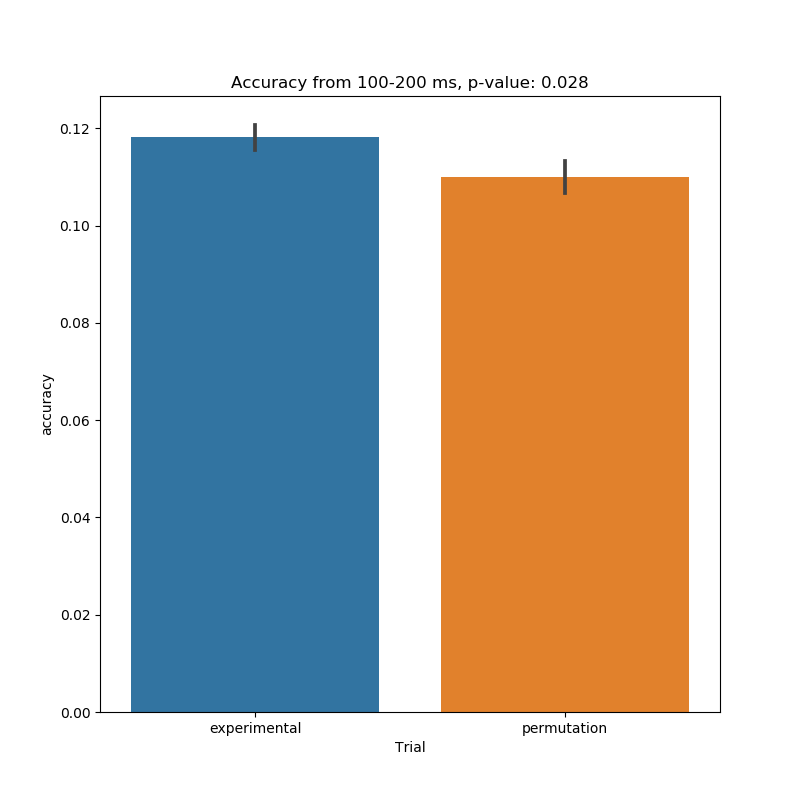
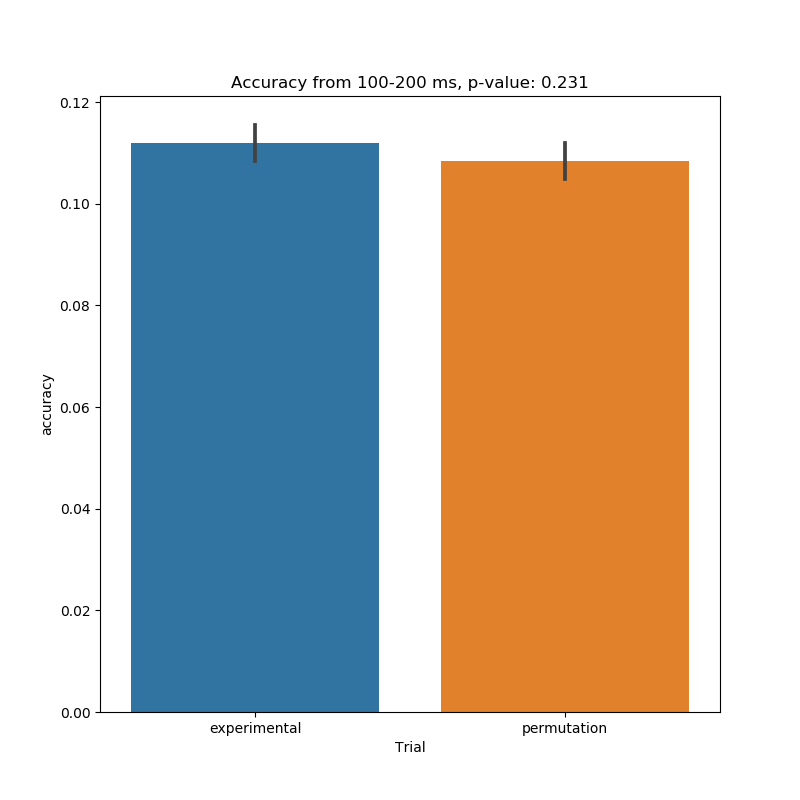
figures

diff --git a/code/IEM_ori_MEG.py b/code/IEM_ori_MEG.py
@@ -1,6 +1,7 @@
 import numpy as np
 from scipy.io import loadmat
 from scipy.stats import vonmises
+from scipy.optimize import curve_fit
 from sklearn.model_selection import KFold
 import matplotlib.pyplot as plt
 import seaborn as sns
@@ -100,16 +101,16 @@ class InvertedEncoder(object):
 
         chan_resp_cv_coeffs = np.zeros((trn_cv_coeffs.shape[0], len(self.chan_center), trn_cv_coeffs.shape[2]))
 
-        #n_reps = int(np.max(trn_repnum))
+        n_reps = int(np.max(trn_repnum))
 
-        #for ii in range(n_reps):
-        #    trnidx = trn_repnum != ii
-        #    tstidx = trn_repnum == ii
+        for ii in range(n_reps):
+            trnidx = trn_repnum != ii
+            tstidx = trn_repnum == ii
 
-        kfold = KFold(n_splits=5, shuffle=True)
-        for train, test in kfold.split(trn_cv_coeffs):
-            trnidx = train
-            tstidx = test
+        #kfold = KFold(n_splits=5, shuffle=True)
+        #for train, test in kfold.split(trn_cv_coeffs):
+            #trnidx = train
+            #tstidx = test
 
             thistrn = trn_cv_coeffs[trnidx, :, :]
             thistst = trn_cv_coeffs[tstidx, :, :]
@@ -242,7 +243,7 @@ def make_pd_bar(exp_accs, perm_accs):
     df = pd.DataFrame(data=d)
     return df
 
-def run_all_subjects(n_ori_chans, n_p_tests=100, n_exp_tests=20, n_timesteps=16, percept_data=False, time_shift=0):
+def run_all_subjects(n_ori_chans, n_p_tests=100, n_exp_tests=10, n_timesteps=16, percept_data=False, time_shift=0):
     IEM = InvertedEncoder(n_ori_chans)
     avg_response = np.zeros(n_ori_chans)
     total_trials = 0
@@ -267,7 +268,7 @@ def run_all_subjects(n_ori_chans, n_p_tests=100, n_exp_tests=20, n_timesteps=16,
         for subj in meg_subj_lst:
             coeffs, trng_cv, targ_ori = IEM.run_subject(subj, shuffle_data=True, 
                                                         percept_data=percept_data, time_shift=time_shift)    
-            tmean = coeffs.mean(axis=2)
+            tmean = coeffs[:, :, 4:13].mean(axis=2)
             exp_timestep_ch_response += coeffs.mean(axis=0) * len(trng_cv)
             exp_accuracies[i] += n_correct(tmean, targ_ori, len(trng_cv))
             exp_accuracies_4_8[i] += n_correct(coeffs[:, :, 4:9].mean(axis=2), targ_ori, len(trng_cv))
@@ -280,7 +281,7 @@ def run_all_subjects(n_ori_chans, n_p_tests=100, n_exp_tests=20, n_timesteps=16,
         exp_accuracies_4_8[i] /= test_trials
 
         trial_accuracy = trial_accuracy / test_trials
-        exp_t_accs_x.extend(np.linspace(0.0, 0.4, n_timesteps))
+        exp_t_accs_x.extend(np.linspace(0.0, 0.375, n_timesteps))
         exp_t_accs_y.extend(trial_accuracy)
 
         avg_response += trial_response
@@ -327,7 +328,7 @@ def run_all_subjects(n_ori_chans, n_p_tests=100, n_exp_tests=20, n_timesteps=16,
         for subj in meg_subj_lst:
             coeffs, trng_cv, targ_ori = IEM.run_subject(subj, shuffle_data=True, permutation_test=True, 
                                                         percept_data=percept_data, time_shift=time_shift)
-            tmean = coeffs.mean(axis=2)
+            tmean = coeffs[:, :, 4:13].mean(axis=2)
             temp_perm_accuracy += n_correct(tmean, targ_ori, len(trng_cv))
             perm_trial_acc += n_correct_tsteps(coeffs, targ_ori, len(trng_cv))
             total_response += np.sum(tmean, 0)
@@ -369,13 +370,6 @@ def run_all_subjects(n_ori_chans, n_p_tests=100, n_exp_tests=20, n_timesteps=16,
     plt.savefig("../Figures/IEM/python_files/accuracy.png")
     plt.clf()
 
-    acc_df_4_8 = make_pd_bar(exp_accuracies_4_8, perm_accuracies)
-    plt.figure(figsize=(8, 8))
-    sns.barplot(x='Trial', y='accuracy', data=acc_df_4_8, ci="sd")
-    plt.title("Accuracy from 100-200 ms, p-value: {:.3f}".format(extreme_accs_4_8.mean() / n_p_tests))
-    plt.savefig("../Figures/IEM/python_files/accuracy_4_8.png")
-    plt.clf()
-
     plt.figure(figsize=(8,8))
     plt.hist(perm_accuracies, bins=np.linspace(0.09, 0.14, 20), label="permutation")
     plt.axvline(exp_accuracies.mean(), label="Mean Accuracy", linewidth=2.5, color='r')
@@ -386,19 +380,17 @@ def run_all_subjects(n_ori_chans, n_p_tests=100, n_exp_tests=20, n_timesteps=16,
     plt.savefig("../Figures/IEM/python_files/null_comparison.png")
     plt.clf()
 
-    plt.figure(figsize=(4, 8))
-    sns.lineplot(exp_list_x, exp_list_y, label="Experimental Response", ci="sd")
+    plt.figure(figsize=(6, 6))
+    sns.lineplot(exp_list_x, exp_list_y, label="Experimental", ci="sd")
     sns.lineplot(perm_list_x, perm_list_y, label="Permutation", ci="sd")
     
-    plt.ylim(0.1, 0.35)
-    for i in range(n_ori_chans):
-        plt.text(i-0.5, avg_response[i]+0.03, ch_resp_p_values[i], color="red")
+    plt.ylim(0.2, 0.35)
     plt.legend()
     plt.xticks(ticks=np.arange(n_ori_chans), labels=np.arange(0, 180, 180 / n_ori_chans).astype(int))
-    plt.title("Mean Channel Response of Experiment vs. Permutation groups")
+    plt.title("Mean Channel Response\n100-300ms")
     plt.xlabel("Orientation Channel (Degrees)")
     plt.ylabel("Channel Response")
-    plt.savefig("../Figures/IEM/python_files/perm_response.png")
+    plt.savefig("../Figures/IEM/python_files/perm_response_current.png")
     plt.clf()
 
 
@@ -560,8 +552,8 @@ def iem_sd_dog(n_ori_chans, n_bins=15, n_exp_tests=2, n_bootstraps=1000, bootstr
         print(i)
     
         plt.figure(figsize=(9, 6))
-        sns.lineplot(fit_list[i][1], fit_list[i][0], label="Experimental", linewidth=4, color="red")
         sns.lineplot(perm_fit_list[i][1], perm_fit_list[i][0], label="Permutation", linewidth=4, color="green")
+        sns.lineplot(fit_list[i][1], fit_list[i][0], label="Experimental", linewidth=4, color="red")
         plt.ylim((-20, 20))
         plt.title("a: {:.3f}      p: {:.3f}".format(a_list[i].mean(), p_values[i]))
         plt.xlabel("Relative Previous Orientation (degrees)")
@@ -658,6 +650,81 @@ def iem_sd_all(n_ori_chans, n_bins=15, percept_data=False, n_p_tests=100, n_exp_
         plt.clf()
     return
 
+def gaussian_func(x, a, x0, sigma):
+    return a * np.exp(-(x-x0)**2/(2*sigma**2))
+
+def get_dist_mean(bins, n_bins=15):
+    mu_list = []
+    for i in range(n_bins):
+        x = np.arange(10, 171, 20)
+        y = np.maximum(bins[i], 0.0)
+        mu = 90
+        if np.sum(y) != 0:
+            mu = np.maximum(np.minimum(np.sum(x*y)/ np.sum(y), 100), 80)
+        sigma = np.sum(y*(x-mu)**2)/9
+        try:
+            popt, _ = curve_fit(gaussian_func, x, y, p0=[1, 90, sigma])
+            mu = popt[1]
+            mu = np.minimum(np.maximum(mu, 80), 100)
+            mu_list.append(mu)
+        except:
+            mu_list.append(mu)
+    return np.array(mu_list)
+
+def iem_sd_allv2(n_ori_chans, n_bins=15, percept_data=False, n_p_tests=100, n_exp_tests=25, n_timesteps=16):
+    IEM = InvertedEncoder(n_ori_chans)
+    #meg_subj_lst = ["KA", "AK"]
+   
+    bin_accuracies = np.zeros((n_exp_tests, n_bins, n_timesteps))
+    for i in range(n_exp_tests):
+        print("Experimental Test: %i" % i)
+        bin_sizes = np.zeros(n_bins)
+        bins = np.zeros((n_bins, n_ori_chans, n_timesteps))
+        for subj in meg_subj_lst:
+            temp_bins, temp_bin_sizes = IEM.run_sd_subject(subj, n_bins=n_bins)
+            bins += temp_bins
+            bin_sizes += temp_bin_sizes
+        
+        for j in range(n_timesteps):
+            normalized_bins = bins[:, :, j] / bin_sizes[:, None]
+            bin_accuracies[i, :, j] = get_dist_mean(normalized_bins, n_bins=n_bins) - 90
+
+    perm_bin_accuracies = np.zeros((n_p_tests, n_bins, n_timesteps))
+    for i in range(n_p_tests):
+        print("Permutation Test: %i" %i)
+        bin_sizes = np.zeros(n_bins)
+        bins = np.zeros((n_bins, n_ori_chans, n_timesteps))
+        for subj in meg_subj_lst:
+            temp_bins, temp_bin_sizes = IEM.run_sd_subject(subj, n_bins=n_bins, permutation_test=True)
+            bins += temp_bins
+            bin_sizes += temp_bin_sizes
+        
+        for j in range(n_timesteps):
+            normalized_bins = bins[:, :, j] / bin_sizes[:, None]
+            perm_bin_accuracies[i, :, j] = get_dist_mean(normalized_bins, n_bins=n_bins) - 90
+
+
+    ptest_comp = np.zeros((n_bins, n_timesteps))
+    for i in range(n_p_tests):
+        for j in range(n_exp_tests):
+            gr_eq_vals = np.abs(perm_bin_accuracies[i, :, :]) >= np.abs(bin_accuracies[j, :, :])
+            ptest_comp[gr_eq_vals] += 1.0
+    ptest_comp /= (n_p_tests * n_exp_tests)
+        
+    for j in range(n_timesteps):
+        plt.figure(figsize=(8,8))
+        xs = np.linspace(-90 + (90 / n_bins), 90 - (90 / n_bins), n_bins)
+        plt.bar(xs, bin_accuracies[:, :, j].mean(0), width = 180 / n_bins)
+        plt.ylim((-20, 20))
+        plt.xlabel("Relative Previous Orientation")
+        plt.ylabel("Channel Response Bias")
+        for i in range(n_bins):
+            if ptest_comp[i, j] < 0.05:
+                plt.text(xs[i], 9, "*")
+        plt.savefig("../Figures/final_results/bias/fit_bias_t%i_2.png" % j)
+        plt.clf()
+    return
+
 def correlate_prev_curr():
     current = run_all_subjects(9, n_exp_tests=2, n_p_tests=1)
     current = current.mean(0)
@@ -723,7 +790,9 @@ def main():
     #iem_sd_dog(180, n_bins=45, n_exp_tests=100, n_bootstraps=100, n_permutations=1000, bootstrap_size=1000)
     #iem_sd_all(9)
     #calc_previous_selectivity(9, n_exp_tests=500)
-    run_all_subjects(9, time_shift=-1)
+    #run_all_subjects(9, time_shift=-1)
+    #run_all_subjects(9)
+    iem_sd_allv2(9, n_exp_tests=100, n_p_tests=100)
 
 if __name__ == "__main__":
     main()

diff --git a/code/bayesian_model.py b/code/bayesian_model.py
@@ -13,6 +13,8 @@ from file_lists import new_beh_lst, meg_subj_lst, ch_picks, n_subj_trials
 import load_data as ld
 from DoG import init_gmodel
 
+from sklearn.model_selection import KFold
+
 
 saved_data = {}
 
@@ -147,7 +149,7 @@ def first_guess(W, actual_meg, log_omega_det, omega_inv):
     first_g[np.isnan(first_g)] = 0.0
 
     if np.sum(first_g) == 0.0:
-        first_g[np.random.choice(len(first_g))] == 1.0
+        first_g = np.random.rand(first_g.shape[0])
 
     return first_g
 
@@ -211,9 +213,14 @@ class BayesianIEM(object):
 
         n_reps = int(np.max(trn_repnum))
 
-        for ii in range(n_reps):
-            trnidx = trn_repnum != ii
-            tstidx = trn_repnum == ii
+        kfold = KFold(n_splits=5, shuffle=True)
+        for train, test in kfold.split(trn_cv_coeffs):
+            trnidx = train
+            tstidx = test
+
+        #for ii in range(n_reps):
+            #trnidx = trn_repnum != ii
+            #tstidx = trn_repnum == ii
 
             thistrn = trn_cv_coeffs[trnidx, :, :]
             thistst = trn_cv_coeffs[tstidx, :, :]
@@ -232,12 +239,12 @@ class BayesianIEM(object):
                 omega_inv, log_omega_det = fit_omega(cov_residual, W @ W.T) # might need to transpose both w_coeffs
 
                 tst_results = []
-                starting_vals = np.linalg.lstsq(w_coeffs.T, thistst_tpt.T)[0].T
+                #starting_vals = np.linalg.lstsq(w_coeffs.T, thistst_tpt.T)[0].T
 
                 for j in range(thistst_tpt.shape[0]):
 
-                    #starting_value = first_guess(W, thistst_tpt[j], log_omega_det, omega_inv)
-                    starting_value = starting_vals[j]
+                    starting_value = first_guess(W, thistst_tpt[j], log_omega_det, omega_inv)
+                    #starting_value = starting_vals[j]
 
                     result = maximize_params(starting_value, W, thistst_tpt[j], log_omega_det, omega_inv)
                     #print(result)
@@ -600,7 +607,7 @@ def iem_sd_all(n_ori_chans, n_bins=15, percept_data=False, n_p_tests=100, n_exp_
     return
 
 def main():
-    run_all_subjects(9, n_exp_tests=10, n_p_tests=100)
+    run_all_subjects(9, n_exp_tests=2, n_p_tests=4)
     #run_all_subjects(9, time_shift=-1)
     #load_behavior("KA")
     #load_percept_data("KA")

diff --git a/code/DoG.py b/code/DoG.py
@@ -166,14 +166,15 @@ def run_ptestv2(n_bootstraps=5000, n_permutations=100000, bootstrap_size=1000):
     print(a_list)
     print(a_perm_list)
     plt.figure(figsize=(9, 6))
-    plt.scatter(rel_or, error, alpha=0.25)
+    picked_scatter = np.random.choice(len(rel_or), 1000, replace=False)
+    plt.scatter(rel_or[picked_scatter], error[picked_scatter], alpha=0.15)
     #sns.lineplot(fit_list[0], fit_list[1], color="r", label="Experimental")
     plt.plot(rel_or, result.best_fit[sorted_indices], color="red", linewidth=4, label="Experimental")
     sns.lineplot(perm_fit_list[0], perm_fit_list[1], color="g", label="Permutation", linewidth=4)
     plt.xlabel("Relative Orientation of Previous Trial")
     plt.ylabel("Error on Current Trial")
     plt.title("a={:.3f}      P={:.3f}".format(a_list.mean(), p_value))
-    plt.savefig("../Figures/final_results/DoG/DoG_plot_v2.png")
+    plt.savefig("../Figures/final_results/DoG/DoG_plot_v2.png", dpi=800)
 
 
 def run_ptest(n_bootstraps=5000, n_permutations=100000, bootstrap_size=1000):
